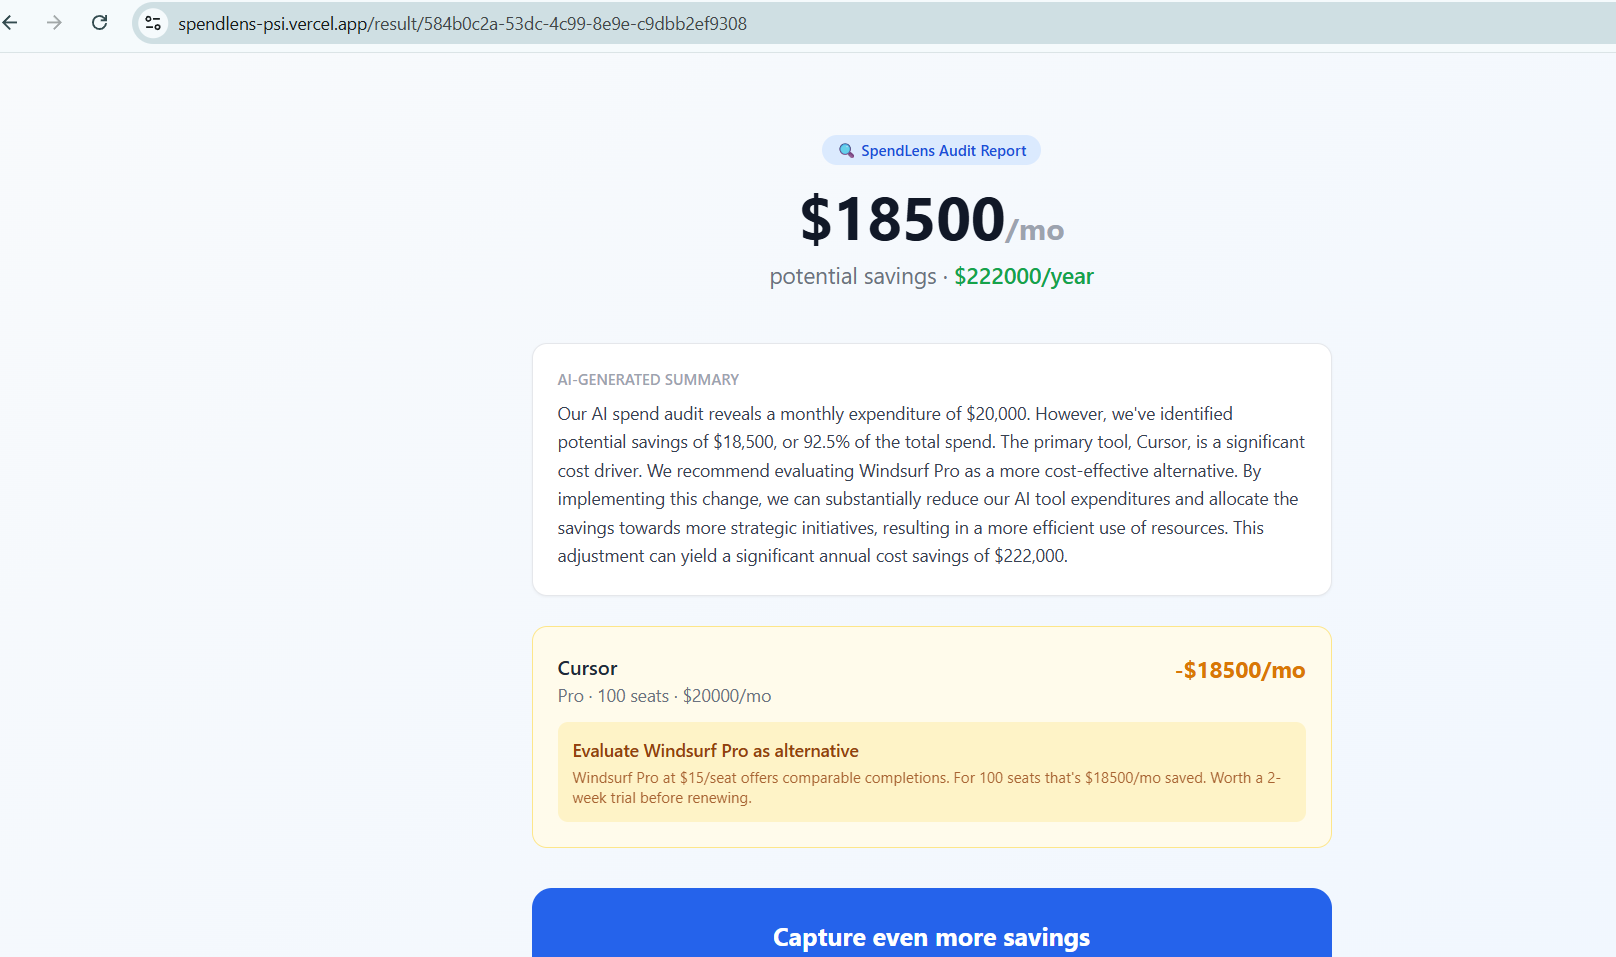
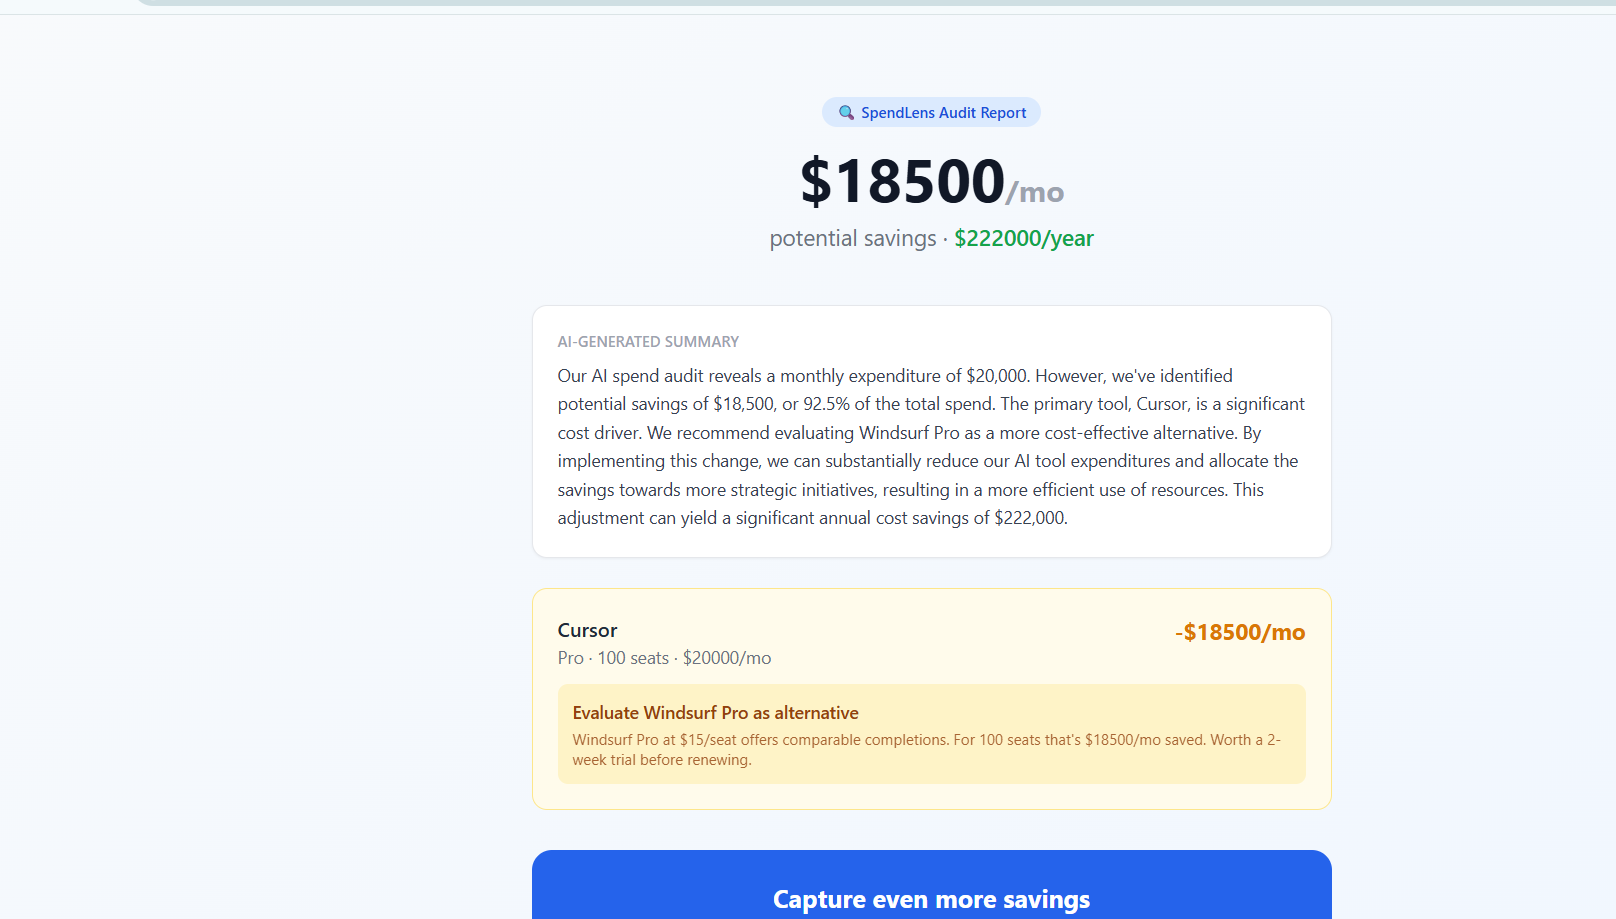
docs: add more screenshots & update ARCHITECTURE

diff --git a/ARCHITECTURE.md b/ARCHITECTURE.md
@@ -25,12 +25,12 @@ graph TD
 
 ## Stack Choices
 
-- **React + Vite** — fast dev, simple SPA, no SSR needed
-- **TypeScript** — catches bugs at compile time, preferred by assignment
-- **Tailwind CSS v3** — utility-first, no design system overhead
-- **Groq (llama-3.3-70b)** — fast, free tier, good quality for short summaries
-- **Neon Postgres** — serverless Postgres, free tier, no connection pool needed
-- **Vercel** — zero config deploy, environment variable support
+- **React + Vite** - fast dev, simple SPA, no SSR needed
+- **TypeScript** - catches bugs at compile time, preferred by assignment
+- **Tailwind CSS v3** - utility-first, no design system overhead
+- **Groq (llama-3.3-70b)** - fast, free tier, good quality for short summaries
+- **Neon Postgres** - serverless Postgres, free tier, no connection pool needed
+- **Vercel** - zero config deploy, environment variable support
 
 ## Scaling to 10k audits/day
 
@@ -41,5 +41,5 @@ graph TD
 
 ## Known Limitations
 
-- Transactional email (Resend) not implemented — requires a server-side API route to avoid exposing the API key in the browser bundle. Would be a 2-hour addition with a Vercel serverless function.
-- Audit share URLs load from sessionStorage — works for same-browser sharing. Full cross-device sharing requires loading audit data from Neon by ID on the Result page.
+- Transactional email (Resend) not implemented - requires a server-side API route to avoid exposing the API key in the browser bundle. Would be a 2-hour addition with a Vercel serverless function.
+- Audit share URLs load from sessionStorage - works for same-browser sharing. Full cross-device sharing requires loading audit data from Neon by ID on the Result page.

diff --git a/README.md b/README.md
@@ -24,8 +24,8 @@ npm run dev
 
 ## Decisions
 
-1. **Vite + React over Next.js** — No SSR needed for an SPA audit tool. Vite is faster to develop with and deploys easily to Vercel.
-2. **Groq over Anthropic API** — Groq's free tier is generous enough for a demo; same LLM quality for short summaries.
-3. **SessionStorage for audit state** — Avoids backend round-trips for the happy path. DB write is fire-and-forget.
-4. **Hardcoded audit rules over AI** — The assignment explicitly notes this. Rule-based logic is auditable and defensible to a finance person.
-5. **Email captured after value shown** — Never before. Users trust the tool first, then share their email. Conversion is higher this way.
+1. **Vite + React over Next.js** - No SSR needed for an SPA audit tool. Vite is faster to develop with and deploys easily to Vercel.
+2. **Groq over Anthropic API** - Groq's free tier is generous enough for a demo; same LLM quality for short summaries.
+3. **SessionStorage for audit state** - Avoids backend round-trips for the happy path. DB write is fire-and-forget.
+4. **Hardcoded audit rules over AI** - The assignment explicitly notes this. Rule-based logic is auditable and defensible to a finance person.
+5. **Email captured after value shown** - Never before. Users trust the tool first, then share their email. Conversion is higher this way.
